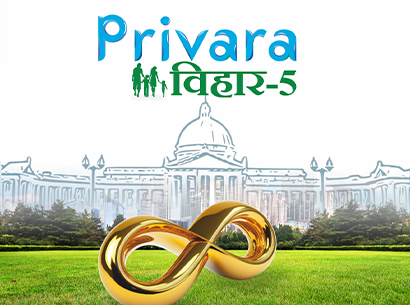
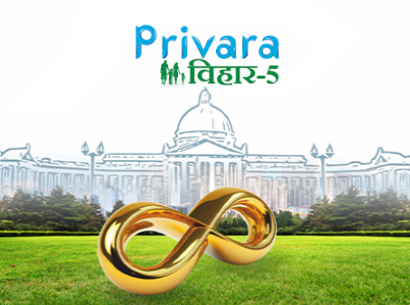
proppage

diff --git a/app/(Pages)/Property/page.jsx b/app/(Pages)/Property/page.jsx
@@ -16,12 +16,10 @@ const Property = () => {
     <>
     {/* Header Start */}
     <div className="container-fluid header bg-white p-0" >
-      <div className="row g-0 align-items-center flex-column-reverse flex-md-row">
-        <div className="breadbox"  style={{ textAlign: 'center',
-         
-        }}>
+      <div className="row g-0 align-items-center flex-column-reverse flex-md-row ">
+        <div className="breadbox mt-4 pt-4"  style={{ textAlign: 'center'}}>
           <div>
-          <h1 className="display-5 text-white animated fadeIn mb-4">Properties </h1>
+          <h1 className="display-5 text-white animated fadeIn mt-4 pt-4">Properties </h1>
           <hr className='dash1'/>
           {/* <nav aria-label="breadcrumb animated fadeIn ">
             <ol className="breadcrumb text-uppercase">
@@ -43,7 +41,7 @@ const Property = () => {
           </div>
         </div>
         <div className="flex animated fadeIn"  >
-          <Image className="pbanner img-fluid" src={header} alt="" style={{}}/>
+          <Image className="pbanner img-fluid" src={header} alt=""/>
         </div>
       </div>
     </div>
@@ -68,17 +66,21 @@ const Property = () => {
             <div className="col-md-4">
               <select className="form-select border-0 py-3">
                 <option selected="">Plots</option>
-                <option value={1}>Property Type 1</option>
-                <option value={2}>Property Type 2</option>
-                <option value={3}>Property Type 3</option>
+                <option value={1}>KRISHNA NAGARI</option>
+                <option value={2}>KUHAASA RESIDENCY</option>
+                <option value={3}>PRIVARA VIHAR – 3</option>
+                <option value={3}>PRIVARA VIHAR – 4</option>
+                <option value={3}>PRIVARA VIHAR – 5</option>
+                <option value={3}>PRIVARA VIHAR – 6</option>
               </select>
             </div>
             <div className="col-md-4">
               <select className="form-select border-0 py-3">
                 <option selected="">Location</option>
                 <option value={1}>Jamtha</option>
-                <option value={2}>Location 2</option>
-                <option value={3}>Location 3</option>
+                <option value={2}>Shankarpur</option>
+                <option value={3}>Lonara</option>
+                <option value={4}>Tarodi</option>
               </select>
             </div>
           </div>

diff --git a/app/styles/common.css b/app/styles/common.css
@@ -525,6 +525,7 @@
 
 
 .pbanner{
+  max-height: 350px;
   position: relative;
   object-fit: cover;
   z-index: -1;
